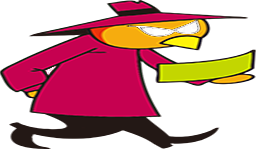
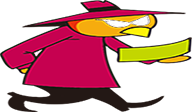
choice scene에서 캐릭터 크기 다 줄이고 카이스트 마지막 광수 캐리커쳐 사용해봄

diff --git a/src/scene/choicescene.cpp b/src/scene/choicescene.cpp
@@ -51,24 +51,24 @@ void ChoiceScene::setupChoice()
     go_button->setPos(365,200);
 
 	player_button[0] = new PlayerButton(this, get_window(), 0);
-    player_button[0]->setPos(10, 100);
+    player_button[0]->setPos(50, 100);
 	player_button[1] = new PlayerButton(this, get_window(), 1);
-    player_button[1]->setPos(10, 300);
+    player_button[1]->setPos(50, 250);
 	player_button[2] = new PlayerButton(this, get_window(), 2);
-    player_button[2] ->setPos(10, 500);
+    player_button[2] ->setPos(50, 400);
 	player_button[3] = new PlayerButton(this, get_window(), 3);
-    player_button[3]->setPos(764, 100);
+    player_button[3]->setPos(784, 100);
 	player_button[4] = new PlayerButton(this, get_window(), 4);
-    player_button[4]->setPos(764, 300);
+    player_button[4]->setPos(784, 250);
 	player_button[5] = new PlayerButton(this, get_window(), 5);
-    player_button[5]->setPos(764, 500);
+    player_button[5]->setPos(784, 400);
 
 	map_button[0] = new MapButton(this, get_window(), 0);
-    map_button[0] ->setPos(215, 600);
+    map_button[0] ->setPos(215, 550);
 	map_button[1] = new MapButton(this, get_window(), 1);
-    map_button[1] ->setPos(415, 600);
+    map_button[1] ->setPos(415, 550);
 	map_button[2] = new MapButton(this, get_window(), 2);
-    map_button[2] ->setPos(615, 600);
+    map_button[2] ->setPos(615, 550);
 
 
 }
